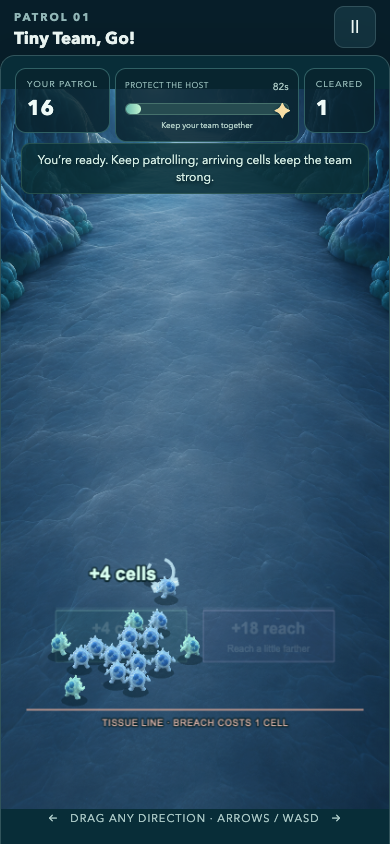
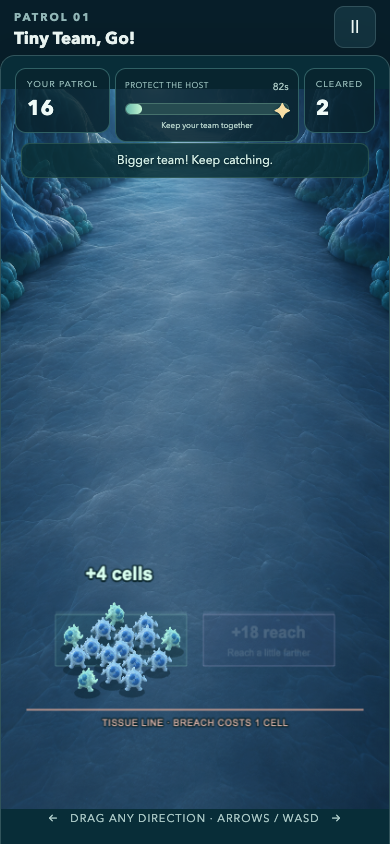
Simplify first play and accelerate opening catches in v0.3.1

diff --git a/src/main.ts b/src/main.ts
@@ -40,6 +40,7 @@ function notify(text: string) { document.querySelector('.notification')?.remove(
 const navigation = () => [['patrol', '◈', 'Patrol map'], ['squad', '♧', 'Your squad'], ['guide', '▤', 'Field guide'], ['settings', '⚙', 'Settings']].map(([id, icon, text]) => `<button data-nav="${id}" class="${page === id ? 'active' : ''}"><span class="nav-icon">${icon}</span>${text}</button>`).join('');
 function render() {
     document.body.classList.toggle('game-mode', page === 'game');
+    document.body.classList.toggle('first-welcome',page==='patrol'&&save.completed.length===0);
     document.body.classList.toggle('reduce-motion',save.reducedMotion);
     root.innerHTML = `<div class="app-shell"><aside class="sidebar"><div class="brand"><div class="brand-mark">✳</div><div><div class="brand-name">biology dash</div><div class="brand-sub">IMMUNE PATROL</div></div></div><nav class="nav" aria-label="Main">${navigation()}</nav><div class="sidebar-note"><strong>Small cells. Big teamwork.</strong>A little adventure inside you.<br>Made for curious minds.<br><br>v${__APP_VERSION__} · Local progress</div></aside><main class="content">${page === 'game' ? gameMarkup() : `<header class="topline"><span class="eyebrow">${page === 'patrol' ? 'Your next tiny adventure' : page === 'guide' ? 'Curiosity looks good on you' : 'Immune patrol'}</span><span class="currency" aria-label="${save.credits} Coins"><i class="coin-icon" aria-hidden="true">●</i> ${save.credits} Coins</span></header>${page === 'patrol' ? mapMarkup() : page === 'squad' ? squadMarkup() : page === 'guide' ? guideMarkup() : settingsMarkup()}`}</main><aside class="rightbar">${rightMarkup()}</aside></div>${page === 'game' ? '' : `<nav class="mobile-nav" aria-label="Mobile">${navigation()}</nav>`}`;
     root.querySelectorAll<HTMLButtonElement>('[data-nav]').forEach(b => b.onclick = () => navigate(b.dataset.nav!));
@@ -76,7 +77,9 @@ function render() {
     root.querySelector<HTMLButtonElement>('#reach-aid')?.addEventListener('click', () => { save.showReach = !save.showReach; persist(); render(); });
     root.querySelector<HTMLButtonElement>('#tutorial')?.addEventListener('click', () => { save.tutorial = false; persist(); brief(1); });
 }
-function mapMarkup() { const next = LEVELS[selected - 1]; return `${save.economy.pending?`<div class="saved-reward"><span class="coin-icon">●</span> Last patrol: +${save.economy.pending.total} Coins · saved to your balance.</div>`:''}<section class="hero"><div class="hero-copy"><span class="pill">CHAPTER 01 · THE FIRST DEFENSE</span><h1>A tiny team.<br>A mighty mission.</h1><p>Guide your cells. Meet the microbes.<br>Protect the world within.</p><button id="continue" class="primary">${save.completed.length ? 'Continue patrol' : 'Start your patrol'} <span aria-hidden="true">↗</span></button></div>${sprite(11, 'hero-sprite', 'Your immune cell team')}</section><section><div class="section-heading"><h2>The tissue trail</h2><span>${save.completed.length} / 10 complete</span></div><div class="campaign">${LEVELS.map(l => { const unlocked = isUnlocked(save, l.id), done = save.completed.includes(l.id); return `<button data-level="${l.id}" ${!unlocked ? 'disabled' : ''} class="level-card ${l.id === selected ? 'current' : ''} ${!unlocked ? 'locked' : ''}" aria-label="Level ${l.id}: ${l.name}${!unlocked ? ', locked' : ''}"><span class="level-num">${done ? '✓' : String(l.id).padStart(2, '0')}</span><div><h3>${l.name}</h3><p>${l.subtitle}</p><div class="level-meta">${done ? '★'.repeat(save.stars[l.id] ?? 1) + ' · REPLAY' : unlocked ? '90 SEC · ' + (l.id === next.id ? 'UP NEXT' : 'READY') : '▣ · COMPLETE LEVEL ' + (l.id - 1)}</div>${(save.bestScores[l.id] ?? 0) > 0 ? `<div class="level-best">PERSONAL BEST · ${save.bestScores[l.id]}</div>` : ''}</div></button>`; }).join('')}</div></section><footer class="footer">An arcade journey through biology. Explore the field guide as you go.</footer>`; }
+function mapMarkup() {
+    if(!save.completed.length)return `<section class="welcome-play"><span class="eyebrow">BIOLOGY DASH</span><h1>Tiny squad.<br>Big adventure.</h1><div class="welcome-team" aria-hidden="true">${sprite(0,'welcome-cell','')}${sprite(1,'welcome-cell','')}${sprite(0,'welcome-cell','')}</div><p>Drag. Catch. Grow your team.</p><button id="continue" class="primary">Play <span aria-hidden="true">→</span></button><small>No setup. Jump straight in.</small></section>`;
+    const next = LEVELS[selected - 1]; return `${save.economy.pending?`<div class="saved-reward"><span class="coin-icon">●</span> Last patrol: +${save.economy.pending.total} Coins · saved to your balance.</div>`:''}<section class="hero"><div class="hero-copy"><span class="pill">CHAPTER 01 · THE FIRST DEFENSE</span><h1>A tiny team.<br>A mighty mission.</h1><p>Guide your cells. Meet the microbes.<br>Protect the world within.</p><button id="continue" class="primary">${save.completed.length ? 'Continue patrol' : 'Start your patrol'} <span aria-hidden="true">↗</span></button></div>${sprite(11, 'hero-sprite', 'Your immune cell team')}</section><section><div class="section-heading"><h2>The tissue trail</h2><span>${save.completed.length} / 10 complete</span></div><div class="campaign">${LEVELS.map(l => { const unlocked = isUnlocked(save, l.id), done = save.completed.includes(l.id); return `<button data-level="${l.id}" ${!unlocked ? 'disabled' : ''} class="level-card ${l.id === selected ? 'current' : ''} ${!unlocked ? 'locked' : ''}" aria-label="Level ${l.id}: ${l.name}${!unlocked ? ', locked' : ''}"><span class="level-num">${done ? '✓' : String(l.id).padStart(2, '0')}</span><div><h3>${l.name}</h3><p>${l.subtitle}</p><div class="level-meta">${done ? '★'.repeat(save.stars[l.id] ?? 1) + ' · REPLAY' : unlocked ? '90 SEC · ' + (l.id === next.id ? 'UP NEXT' : 'READY') : '▣ · COMPLETE LEVEL ' + (l.id - 1)}</div>${(save.bestScores[l.id] ?? 0) > 0 ? `<div class="level-best">PERSONAL BEST · ${save.bestScores[l.id]}</div>` : ''}</div></button>`; }).join('')}</div></section><footer class="footer">An arcade journey through biology. Explore the field guide as you go.</footer>`; }
 function rightMarkup() { return `<section class="side-card"><h2>Your little defenders</h2><p>Different roles. One remarkable team.</p>${DEFENDERS.map((d, i) => `<div class="roster ${!isUnlocked(save, d.unlockLevel) ? 'locked-row' : ''}">${sprite(i, '', d.name)}<div><b>${d.nickname}</b><small>${d.name} · ${d.role}</small>${isUnlocked(save, d.unlockLevel) ? '<span class="small-tag">READY FOR PATROL</span>' : `<small>Arrives at level ${d.unlockLevel}</small>`}</div></div>`).join('')}</section><section class="side-card"><div class="mini-head">A MOMENT OF BIOLOGY</div><h2>Better, together.</h2><p class="daily-note">Some cells engulf. Others make antibodies that help them find their target. Your best defense is teamwork.</p></section><section class="side-card"><h2>The journey within</h2><div class="progress-track"><div style="width:${save.completed.length * 10}%"></div></div><div class="progress-label"><span>Chapter 01</span><span>${save.completed.length * 10}%</span></div></section>`; }
 function affordableMarkup(){
     const available=ROSTER.filter(r=>r.level===1||save.completed.includes(r.level-1));
@@ -162,7 +165,7 @@ function careKit() {
     return `<div class="care-kit"><div id="breach-warning" class="breach-warning" hidden></div><div class="care-cards">${availableMedicines(selected).map(m => `<button data-medicine="${m.id}" aria-label="Select ${m.name}: ${m.action}" aria-pressed="${medicine===m.id}" style="--medicine:#${m.color.toString(16)}">${medicineIcon(m.id)}<b>${m.nickname}</b><small>Ready</small></button>`).join('')}</div><div class="care-actions"><button id="support">Send ${medicineStyle(medicine).nickname}</button>${selected>=5?'<button id="antibody" aria-expanded="false" aria-controls="tag-picker">♣ Clover</button><button id="complement">Grip Boost</button>':''}</div>${selected>=5?'<section id="tag-picker" class="tag-picker" aria-label="Choose antibody tags" hidden><b>Match the microbe’s crest</b><div><button id="equip-a" aria-pressed="true">♣ Clover IgG</button><button id="equip-b" aria-pressed="false">♛ Crown IgG</button></div><small id="tag-hint">New tags follow this choice. Catchers do the engulfing.</small></section>':''}</div>`;
 }
 
-function gameMarkup() { return `<section class="game-shell"><header class="game-heading"><div><span class="eyebrow">PATROL ${String(selected).padStart(2, '0')}</span><h1>${LEVELS[selected - 1].name}</h1></div><button id="pause" class="icon-button" aria-label="Pause patrol">Ⅱ</button></header><div class="stage"><div id="game" aria-label="Immune patrol play area. Drag in any direction or use arrows or WASD." role="application"></div><div class="hud"><div class="hud-item"><small id="squad-kind">DEFENDERS</small><strong id="squad-count">12</strong></div><div class="hud-item hud-time"><div class="patrol-progress-title"><small id="patrol-stage">PROTECT THE HOST</small><span id="clock">90s</span></div><div class="timebar" role="progressbar" aria-label="Patrol progress" aria-valuemin="0" aria-valuemax="90" aria-valuenow="0"><div id="time-fill" style="width:0%"></div><span class="finish-crest" aria-hidden="true">✦</span></div><span id="stretch-label">Keep your team together</span></div><div class="hud-item"><small>CLEARED</small><strong id="cleared">0</strong></div></div><div id="colony-status" class="colony-status" hidden><div><b id="colony-name"></b><span id="colony-state"></span></div><div id="colony-health" role="progressbar" aria-label="Colony health" aria-valuemin="0" aria-valuemax="100"><i></i></div><small id="colony-tip"></small></div><div id="ability-status" class="ability-status"></div>${selected===1&&!save.tutorial?'<div id="field-coach" class="field-coach" aria-label="First patrol goals"><span data-goal="move">1 · Steer</span><span data-goal="catch">2 · Engulf</span><span data-goal="gate">3 · Cross a gate</span></div>':''}<div class="combat-feedback" id="feedback" role="status">${selected === 1 ? 'Steer close · watch cells wrap and engulf microbes' : LEVELS[selected - 1].subtitle}</div>${selected >= 3 ? careKit() : '<div class="drag-label">← &nbsp; DRAG ANY DIRECTION · ARROWS / WASD &nbsp; →</div>'}</div></section>`; }
+function gameMarkup() { return `<section class="game-shell"><header class="game-heading"><div><span class="eyebrow">PATROL ${String(selected).padStart(2, '0')}</span><h1>${LEVELS[selected - 1].name}</h1></div><button id="pause" class="icon-button" aria-label="Pause patrol">Ⅱ</button></header><div class="stage"><div id="game" aria-label="Immune patrol play area. Drag in any direction or use arrows or WASD." role="application"></div><div class="hud"><div class="hud-item"><small id="squad-kind">DEFENDERS</small><strong id="squad-count">12</strong></div><div class="hud-item hud-time"><div class="patrol-progress-title"><small id="patrol-stage">PROTECT THE HOST</small><span id="clock">90s</span></div><div class="timebar" role="progressbar" aria-label="Patrol progress" aria-valuemin="0" aria-valuemax="90" aria-valuenow="0"><div id="time-fill" style="width:0%"></div><span class="finish-crest" aria-hidden="true">✦</span></div><span id="stretch-label">Keep your team together</span></div><div class="hud-item"><small>CLEARED</small><strong id="cleared">0</strong></div></div><div id="colony-status" class="colony-status" hidden><div><b id="colony-name"></b><span id="colony-state"></span></div><div id="colony-health" role="progressbar" aria-label="Colony health" aria-valuemin="0" aria-valuemax="100"><i></i></div><small id="colony-tip"></small></div><div id="ability-status" class="ability-status"></div>${selected===1&&!save.tutorial?'<div id="field-coach" class="field-coach" aria-label="First patrol goals"><span data-goal="move">Drag to move</span><span data-goal="catch">Catch the microbes</span><span data-goal="gate">Cross +4 to grow</span></div>':''}<div class="combat-feedback" id="feedback" role="status">${selected === 1 ? 'Steer close · watch cells wrap and engulf microbes' : LEVELS[selected - 1].subtitle}</div>${selected >= 3 ? careKit() : '<div class="drag-label">← &nbsp; DRAG ANY DIRECTION · ARROWS / WASD &nbsp; →</div>'}</div></section>`; }
 function start(id: number) {
     previousBest=save.bestScores[id]??0;
     runId=crypto.randomUUID();
@@ -208,7 +211,7 @@ function start(id: number) {
         return;
     } patrol = new Patrol(id, id * 8917, save.reinforcement); patrol.medicine = medicine; patrol.defender = defender; patrol.antibody = { ...save.antibody }; patrol.loadout=deploymentFor(save.roster,id).members;patrol.upgrades={...save.roster.upgrades};patrol.syncCells(); patrol.learning.affinity = save.checks.affinity === true; scene.showReach = save.showReach; scene.muted = save.muted; scene.volume = save.volume; scene.reducedMotion = save.reducedMotion || matchMedia('(prefers-reduced-motion: reduce)').matches; scene.startPatrol(patrol, { tick, event: feedback, finish, pause, gesture: () => { const audio = scene?.sound as unknown as {
             unlock?: () => void;
-        }; audio?.unlock?.(); } }); loading.remove();root.querySelector('#game')?.setAttribute('aria-busy','false');bootControls.forEach(({button,disabled})=>button.disabled=disabled);tick(patrol,true); if (id === 1 && !save.tutorial) feedback('Drag any direction · your cells engulf nearby microbes.'); };
+        }; audio?.unlock?.(); } }); loading.remove();root.querySelector('#game')?.setAttribute('aria-busy','false');bootControls.forEach(({button,disabled})=>button.disabled=disabled);tick(patrol,true); if (id === 1 && !save.tutorial) feedback('Drag to move your squad.'); };
     boot();
 }
 function feedback(text: string) { const el = document.getElementById('feedback'); if (el)
@@ -272,23 +275,24 @@ function tick(p: Patrol,force=false) {
         a.textContent = ANTIBODY_NAMES[p.antibody.epitope].glyph + ' ' + ANTIBODY_NAMES[p.antibody.epitope].short;
     if (selected === 1 && tutorialStep === 0 && (Math.abs(p.x - 210) > 45 || Math.abs(p.y - 635) > 45)) {
         tutorialStep = 1;
-        feedback('Nice steering. Bring your cells close enough to approach the cluster.');
+        feedback('Get close. Your cells do the catching.');
     }
     if (selected === 1 && tutorialStep === 1 && p.kills > 0) {
         tutorialStep = 2;
-        feedback('Engulfed! Next, steer through a gate: more cells or wider contact.');
+        feedback('Nice catch! Cross +4 to grow your team.');
     }
     if (selected === 1 && tutorialStep === 2 && p.learning.gate) {
         tutorialStep = 3;
         save.tutorial = true;
         persist();
-        feedback('You’re ready. Keep patrolling; arriving cells keep the team strong.');
+        feedback('Bigger team! Keep catching.');
     }
     const coach=document.getElementById('field-coach');
     if(coach){
         const done=[tutorialStep>=1,p.kills>0,p.learning.gate];
         Array.from(coach.children).forEach((item,index)=>{
             item.classList.toggle('done',done[index]);
+            (item as HTMLElement).hidden=index!==tutorialStep;
             item.setAttribute('aria-label',(['Steer','Engulf a microbe','Cross a gate'][index])+(done[index]?' complete':' incomplete'));
         });
         if(tutorialStep===3)coach.hidden=true;

diff --git a/src/style.css b/src/style.css
@@ -69,3 +69,5 @@
 .breach-warning{position:absolute;bottom:calc(100% + 5px);left:0;right:0;margin:auto;width:max-content;max-width:100%;padding:6px 10px;border:1px solid #ffd3a1;border-radius:9px;background:#302b27f5;color:#ffe0b5;font-size:11px;font-weight:800;text-align:center;pointer-events:none}.breach-warning[hidden]{display:none}
 
 #support{touch-action:none;user-select:none;-webkit-user-select:none;-webkit-touch-callout:none}#support.charging{outline:2px solid #ffe0a8;outline-offset:-3px;background:linear-gradient(90deg,#ffe0a8 var(--charge),#48726c var(--charge));color:#102d32}
+
+.first-welcome .rightbar,.first-welcome .topline,.first-welcome .sidebar .nav,.first-welcome .sidebar-note{display:none}.first-welcome .app-shell{grid-template-columns:1fr;max-width:760px}.first-welcome .sidebar{align-items:center;padding:0}.first-welcome .brand{margin:0}.first-welcome .mobile-nav{display:flex;justify-content:center;background:transparent;border:0}.first-welcome [data-nav]:not([data-nav=settings]){display:none}.welcome-play{text-align:center;display:flex;flex-direction:column;align-items:center;gap:18px;padding:24px 16px}.welcome-play h1{font-size:clamp(36px,7vw,58px);line-height:1.05;letter-spacing:-1.5px}.welcome-team{display:flex;align-items:center;justify-content:center;height:150px;width:100%;background:radial-gradient(ellipse,#295c6088,transparent 68%)}.welcome-cell{width:110px;height:110px;flex:none;filter:drop-shadow(0 12px 10px #00182055)}.welcome-cell:nth-child(2){transform:translateY(-12px) scale(1.15);margin:0 -25px}.welcome-play p{font-size:17px;color:#cceade}.welcome-play .primary{width:min(100%,300px);min-height:62px;font-size:23px}.welcome-play>small{color:#98b7b4;font-size:12px}.field-coach [hidden]{display:none!important}@media(max-height:650px){.welcome-play{gap:12px;padding:12px}.welcome-team{height:115px}.welcome-play h1{font-size:36px}.first-welcome .app-shell{padding-bottom:60px}}

diff --git a/src/simulation.ts b/src/simulation.ts
@@ -146,7 +146,7 @@ export class Patrol {
             const e = this.enemies[this.enemies.length - 1];
             const angle = rotation + i * 2.4;
             e.x = cx + Math.cos(angle) * (17 + this.random() * 22);
-            e.y = (opening ? 290 : -55) - i * 24 - this.random() * 15;
+            e.y = (opening ? 440 : -55) - i * 24 - this.random() * 15;
         }
         return count;
     }

diff --git a/handoff/PROJECT_HANDOFF.md b/handoff/PROJECT_HANDOFF.md
@@ -3,10 +3,10 @@
 ## Status and priority
 User explicitly resumed development on September23,2026 after opening this local project. Development and verified deployments are authorized within AGENTS.md scope and usage cutoffs. The ACTIVE heartbeat `resume-biology-dash-after-usage-reset` is explicitly authorized to resume development, commit/push verified milestones and deploy verified releases to the existing Vercel demo. The earlier checks-only restriction is superseded. No chat/account database manipulation is needed.
 
-Current application/package version: **0.3.0**. Last verified production: https://biology-dash-public-demo.vercel.app/.
-Deployment: `dpl_EruA92RgdcjyE4NevUjnxem2Kj9N` (READY when verified).
-Immutable URL: https://biology-dash-public-demo-mf33qtlkb-applefound.vercel.app.
-Service worker cache: `biology-91e485084939`.
+Current application/package version: **0.3.1**. Last verified production: https://biology-dash-public-demo.vercel.app/.
+Deployment: `dpl_DM7cNeAGq1WiN29njh2NHV9E5P1D` (READY when verified).
+Immutable URL: https://biology-dash-public-demo-opd9gihpi-applefound.vercel.app.
+Service worker cache: `biology-6234c4c00f85`.
 No pending application changes after that release; handoff documentation is newer. Check live state before making a new release.
 
 ## What exists
@@ -21,8 +21,10 @@ v0.2.4: quiet directional tissue-interception cues and up to3 local markers, exc
 
 v0.3.0: charged medicine support from Patrol3 with tested pointer/key cancellation and full natural-patrol verification. Follow ROADMAP.md and the full continuous-product objective; first-patrol active charge and richer weapon/progression systems remain pending.
 
+v0.3.1: one-button first-run welcome, one cue at a time, first contact around4.8s. Campaign opens after first win. Natural opening and actual public first-play/save/offline checks pass. User priority: simpler and more engaging first play; evaluate fun through human observation rather than claiming it from automated checks.
+
 ## Validation at last release
-113 unit tests, typecheck and production build passed. Latest browser tests: breach-warning (320px including medicine kit), input-performance (touch/crowd), full local production patrol/rewards/reload/offline, public version and cache-upgrade. Prior startup/opening tests remain recorded for0.2.3. Production exact-byte files/version manifest/no-index+robots verified. Phone Settings/desktop version labels show0.3.0. Returning service-worker client kept42Coins, roster/upgrades/loadout/transactions and reloaded offline. Screenshots/JSON artifacts retained.
+113 unit tests, typecheck and production build passed. Latest browser tests: breach-warning (320px including medicine kit), input-performance (touch/crowd), full local production patrol/rewards/reload/offline, public version and cache-upgrade. Prior startup/opening tests remain recorded for0.2.3. Production exact-byte files/version manifest/no-index+robots verified. Phone Settings/desktop version labels show0.3.1. Returning service-worker client kept42Coins, roster/upgrades/loadout/transactions and reloaded offline. Screenshots/JSON artifacts retained.
 Not verified: real-device performance, subjective sound quality, human enjoyment/retention, educational efficacy, clinician review, native readiness. The broad improvement objective is not complete.
 
 ## Resume work after explicit permission

diff --git a/STATUS.md b/STATUS.md
@@ -199,3 +199,7 @@ September24 unattended workflow enabled after explicit user authorization: autom
 September24 local0.3.0-dev charged support: implemented1.5-second capped hold/release with pointer capture, keyboard and assistive-click fallback, cancel on interruption, visible charge/fill and proportional discharge. Wall bursts trade stronger game impact for longer recovery; Doxycycline trades hold time for faster recovery without damage.113unit tests and typecheck pass; mouse/touch/key/pause and320px checks pass. Opening baseline browser assertion observed8.04seconds versus its strict8second limit before gameplay edits; deterministic opening test passes, browser timing assertion needs robust event-time instrumentation. Full natural charged patrol and release checks running. GitHub read access now succeeds. Full continuous objective remains unfinished.
 
 September24 v0.3.0 verified release: dpl_EruA92RgdcjyE4NevUjnxem2Kj9N, cache biology-91e485084939. Natural charged Patrol3 victory21clears/4full discharges/one settlement;113unit tests/typecheck/build, control lifecycle and crowd tests pass. Live exact files, visible versions, no-index/robots and old-player cache/save/offline upgrade pass. Opening actual first-catch event7.97seconds; instrumented browser test now measures event time, with bounded0.5second frame allowance. ROADMAP.md retains the full continuous goal; next cycle should bring an active hold/release mechanic into the opening patrol, then deepen distinct targeting and progression. Preparing milestone commit/push; GitHub remote read access now works.
+
+September24 local0.3.1 first-run simplification: one Play action with Settings, deferred campaign/Coins/roster/reference panels until first victory, one cue at a time, closer first cluster.113unit tests/typecheck/test build pass.320px natural opening first catch4.81seconds, gate recruitment, campaign reveal/reload and Settings access pass; screenshot artifacts/welcome-320.png visually reviewed. Existing-player map/save behavior preserved. Wider first-play regression and release verification pending.
+
+September24 v0.3.1 deployed and verified: dpl_DM7cNeAGq1WiN29njh2NHV9E5P1D, cache biology-6234c4c00f85. Full first-play/opening checks pass; actual public fresh-player launch/catch/pause without instrumentation passes.113tests/typecheck/build pass; exact public files/version labels and returning-player cache/save/offline checks pass. User first-experience priority added to the active heartbeat, rescheduled to12:57EDT after reset1790268956. Next: further first-session action and pacing improvements while preserving this simple launch; active release should add satisfying agency without reintroducing upfront choices. Broader goal remains unfinished.

diff --git a/RELEASES.md b/RELEASES.md
@@ -47,3 +47,9 @@ Quiet interception cues identify unwrapped microbes within2.5seconds of the tiss
 Deployment dpl_EruA92RgdcjyE4NevUjnxem2Kj9N READY; shared https://biology-dash-public-demo.vercel.app/; immutable https://biology-dash-public-demo-mf33qtlkb-applefound.vercel.app. Cache biology-91e485084939.
 
 Hold/charge/release external support from Patrol3: capped1.5second charge, stronger wall bursts with longer recovery, faster charged growth-suppression recovery, visible charge and discharge, pointer capture and keyboard/assistive activation, safe interruption. No save-schema or susceptibility changes.113unit tests/typecheck/build pass. Browser mouse/touch/keyboard/pause/reduced-motion320px checks pass. Natural90second charged Patrol3 won with21clears and4full discharges, one reward settlement, no errors. Crowded-label/touch regression passes17labels/0overlaps; headless median16.7ms,p9533.4ms (not a real-phone performance claim). Opening event instrumented at7.97seconds; old polling-time assertion was replaced with actual event timing and0.5second variable-frame allowance. Production exact-byte/version/no-index/robots checks pass, visible phone/desktop version0.3.0, returning0.2.4 cached client preserves42Coins/roster/transactions and offline reload. Human fun, physical touch and subjective audio remain unverified.
+
+## v0.3.1 — deployed September24,2026
+
+Deployment dpl_DM7cNeAGq1WiN29njh2NHV9E5P1D READY; shared https://biology-dash-public-demo.vercel.app/; immutable https://biology-dash-public-demo-opd9gihpi-applefound.vercel.app. Cache biology-6234c4c00f85.
+
+Simpler first run: one Play action plus Settings, campaign/Coins/roster/reference panels deferred until first victory, sequential single coaching cue, closer opening cluster. Natural first catch4.8s and recruitment8.7s with16cells/0casualties in the opening check.113unit tests, typecheck/build, welcome/settings/campaign-reveal/reload, first-play/result-action and opening checks pass. Live production without instrumentation verifies one-tap launch, early catch and pause; exact assets, version labels, no-index/robots and cached-player42Coins/roster/transactions/offline update pass. No save schema changes. No measured enjoyment/retention or physical-device claim.

diff --git a/GAME_DESIGN.md b/GAME_DESIGN.md
@@ -68,3 +68,6 @@ Unwrapped microbes within2.5seconds of the tissue line at their current authored
 
 ## Charged external support — September24
 From Patrol3, hold the support button or Space to charge for up to1.5seconds; release to fire. Taps retain the original18-impact/12-second recovery pulse. Full wall-targeting bursts reach36impact but take18seconds to recover; charged Doxycycline still suppresses growth without direct damage and reduces recovery to8seconds. Enemies advance while charging; holding after full charge adds no benefit. These are arcade timings and burst effects, not doses or clinical potency comparisons. Mouse/touch capture permits release after slipping off the button. Pause, canceled touches, focus loss and medicine changes cancel safely. Full charge has a growing field marker, fill meter, restrained discharge cue and larger release contour. Reduced motion retains informational charge fill. Early patrol active release, deeper weapon differentiation, richer targeting and broader host-defense progression remain outstanding under the full product goal.
+
+## Simple first run — September24
+Before the first victory, the launch screen presents one Play action and Settings. Campaign, Coins, roster and reference panels appear after the first win; players with a prior victory retain their full map. First-patrol coaching reveals one cue at a time. The opening cluster starts closer so a centered squad makes contact in roughly5seconds; recruitment remains a subsequent visible choice. No new mechanics must be learned before playing. This implements the user priority for a less complicated, engaging first experience; it does not establish measured enjoyment or retention.

diff --git a/START_HERE.md b/START_HERE.md
@@ -5,13 +5,13 @@ This folder is the project. Keep using:
 
 After signing into the new account, open this folder as a local Codex project if it is not already listed. Send:
 
-> Resume Biology Dash. Read AGENTS.md and handoff/PROJECT_HANDOFF.md, then continue from the verified v0.3.0 checkpoint. Keep the existing scope and 5% usage cutoffs.
+> Resume Biology Dash. Read AGENTS.md and handoff/PROJECT_HANDOFF.md, then continue from the verified v0.3.1 checkpoint. Keep the existing scope and 5% usage cutoffs.
 
 That message explicitly lifts the development hold. Opening the folder alone does not.
 
 Codex's project instructions in AGENTS.md point to the complete handoff, so no old chat, attachment upload, or manual context reconstruction is needed. Zero-click account-to-account chat/sidebar migration is not verified or promised.
 
-- **Live:** https://biology-dash-public-demo.vercel.app/ — v0.3.0, last verified September24,2026.
+- **Live:** https://biology-dash-public-demo.vercel.app/ — v0.3.1, last verified September24,2026.
 - **State:** explicitly resumed by user September23,2026; automatic reset-time resumption, development, milestone commits/pushes and verified releases are authorized. See STATUS.md for current work.
 - **Agent context:** [PROJECT_HANDOFF.md](handoff/PROJECT_HANDOFF.md).
 - **Original requests:** handoff/requirements (historical; newer naming/web-only/hold instructions take precedence).

diff --git a/ROADMAP.md b/ROADMAP.md
@@ -3,7 +3,7 @@
 Authority: handoff/requirements/CONTINUOUS_PRODUCT_GOAL.md preserves the full user objective. This backlog is sequencing, not a reduced definition of success.
 
 1. Completed: charged-support v0.3.0 verified and deployed. Continue with the next priorities below; the full goal is ongoing.
-2. Bring an intuitive active hold/release action into the first30seconds, preserving autonomous phagocyte engulfment; tune immediate visual payoff and short-session pace through natural play.
+2. First-run launch simplification and faster catch verified and deployed in0.3.1. Next bring an intuitive active hold/release action into the first30seconds, preserving autonomous phagocyte engulfment; tune immediate visual payoff and short-session pace through natural play.
 3. Differentiate weapon targeting/discharge and visible upgrades; test tap-versus-full-charge tradeoffs across enemy mixes and phone layouts.
 4. Expand progression and replay variety with meaningful host-defense/drug combinations, original environments and encounters; retain readable crowds and restrained sound.
 5. Add source-checked adaptive defenses, infected-cell targets, memory/vaccination and appropriate new therapeutic classes in tested increments. Do not turn biological suggestions into unsourced clinical claims.
